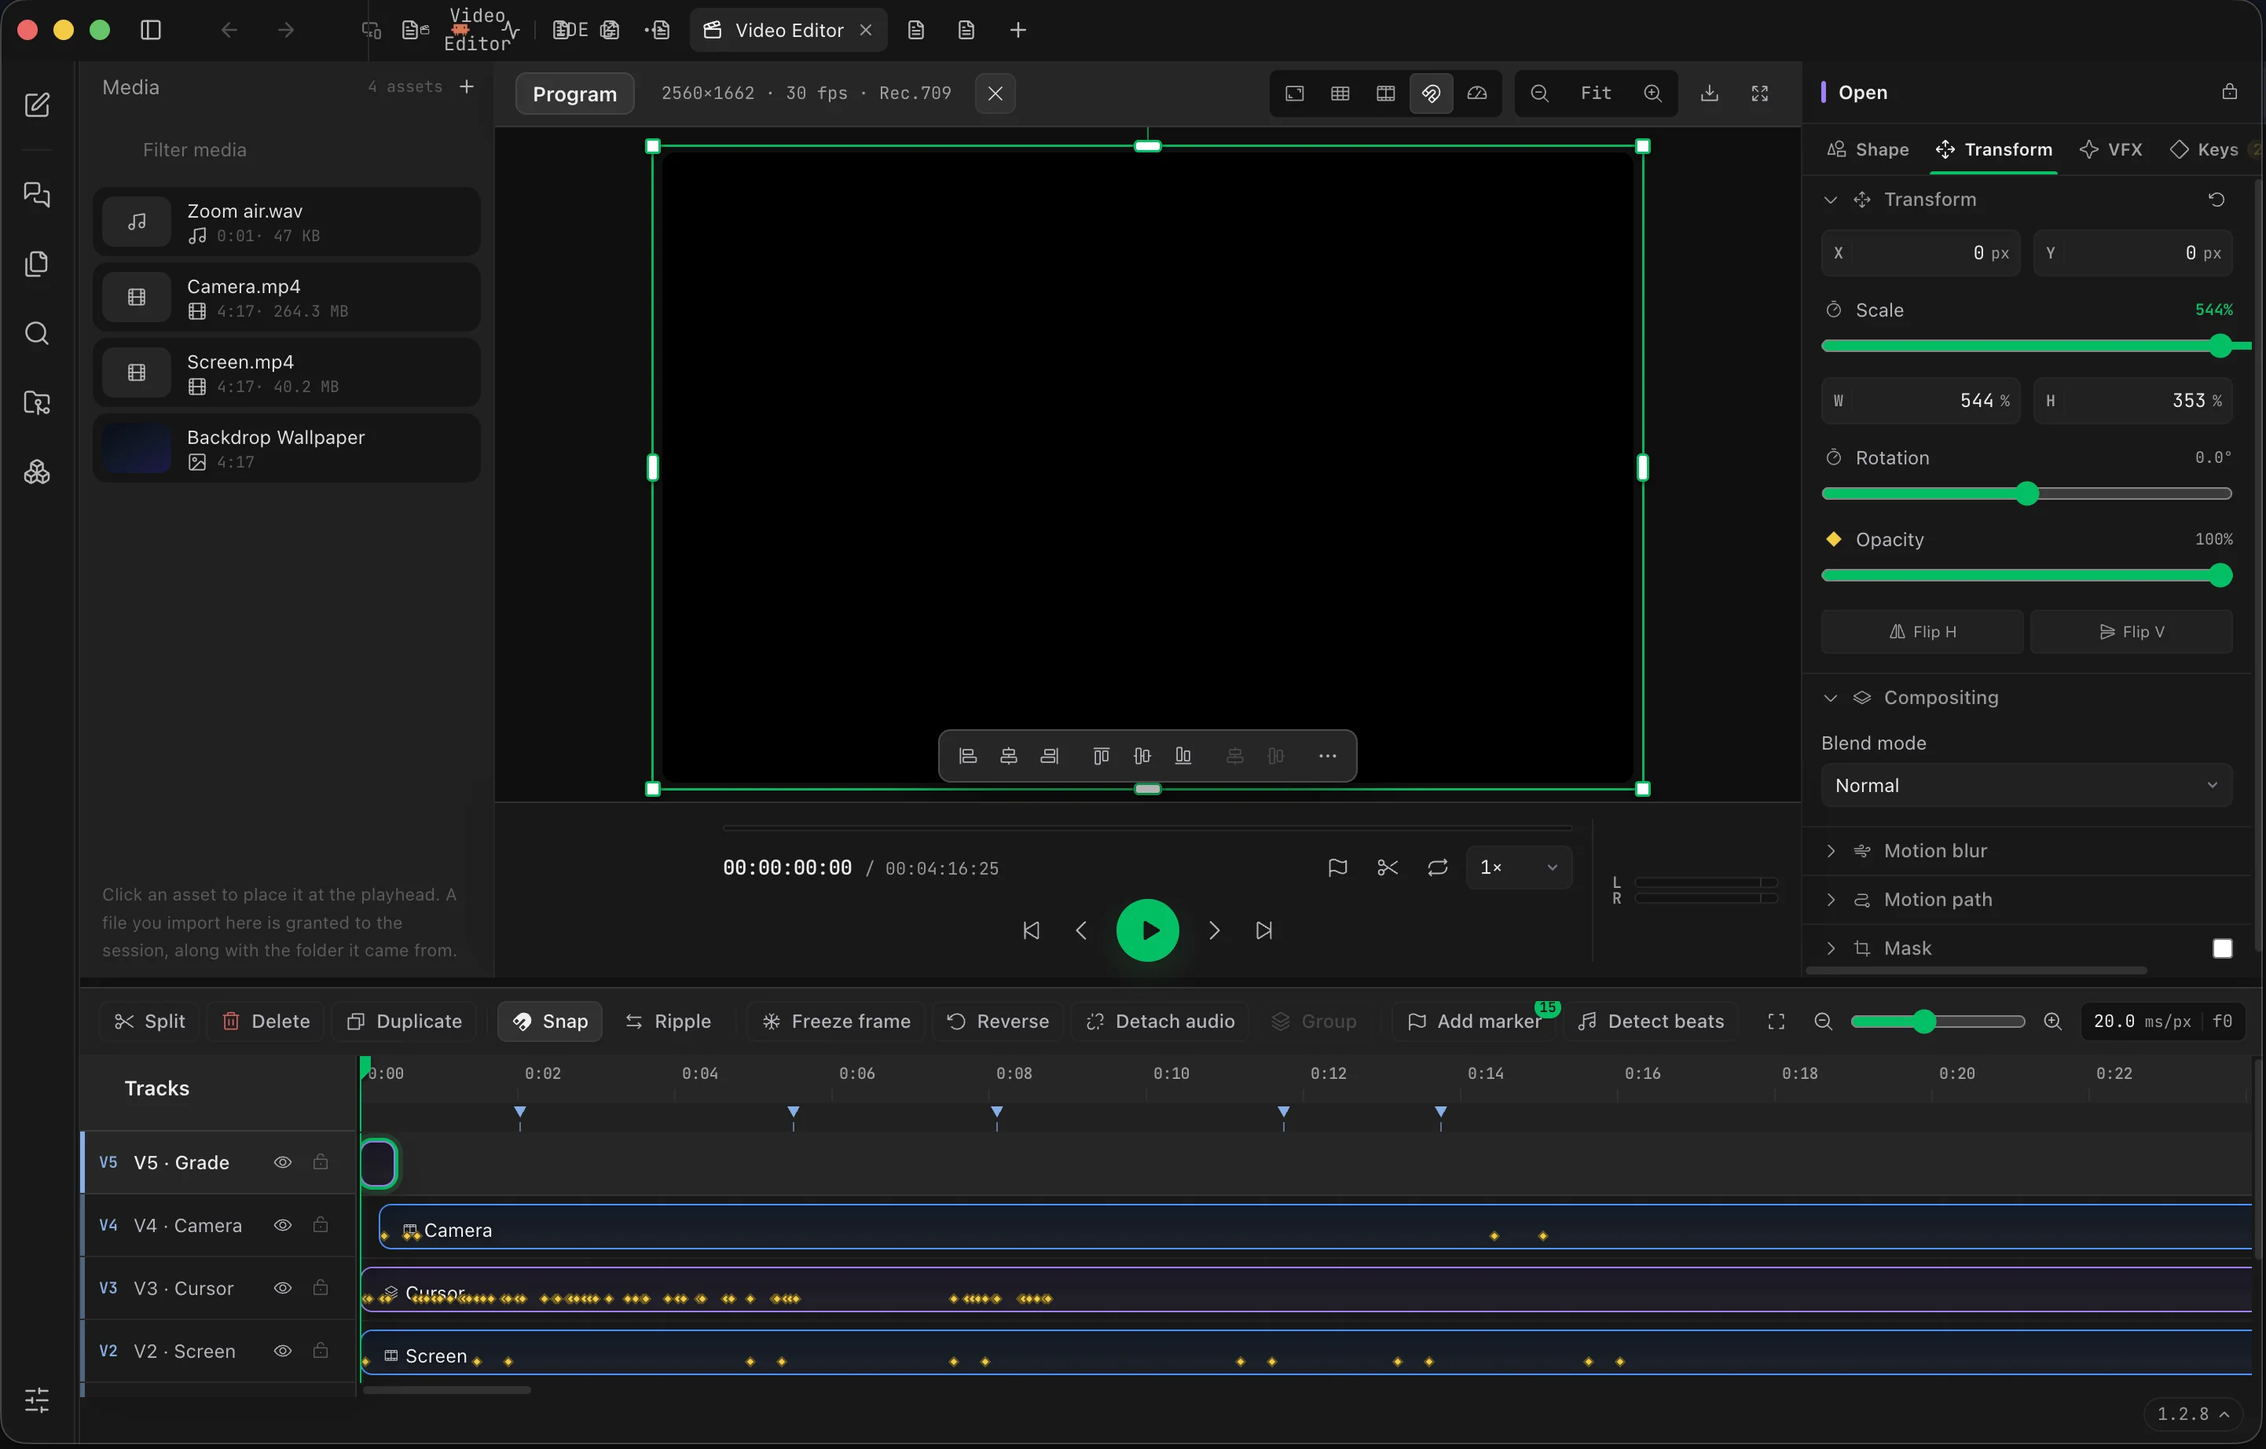
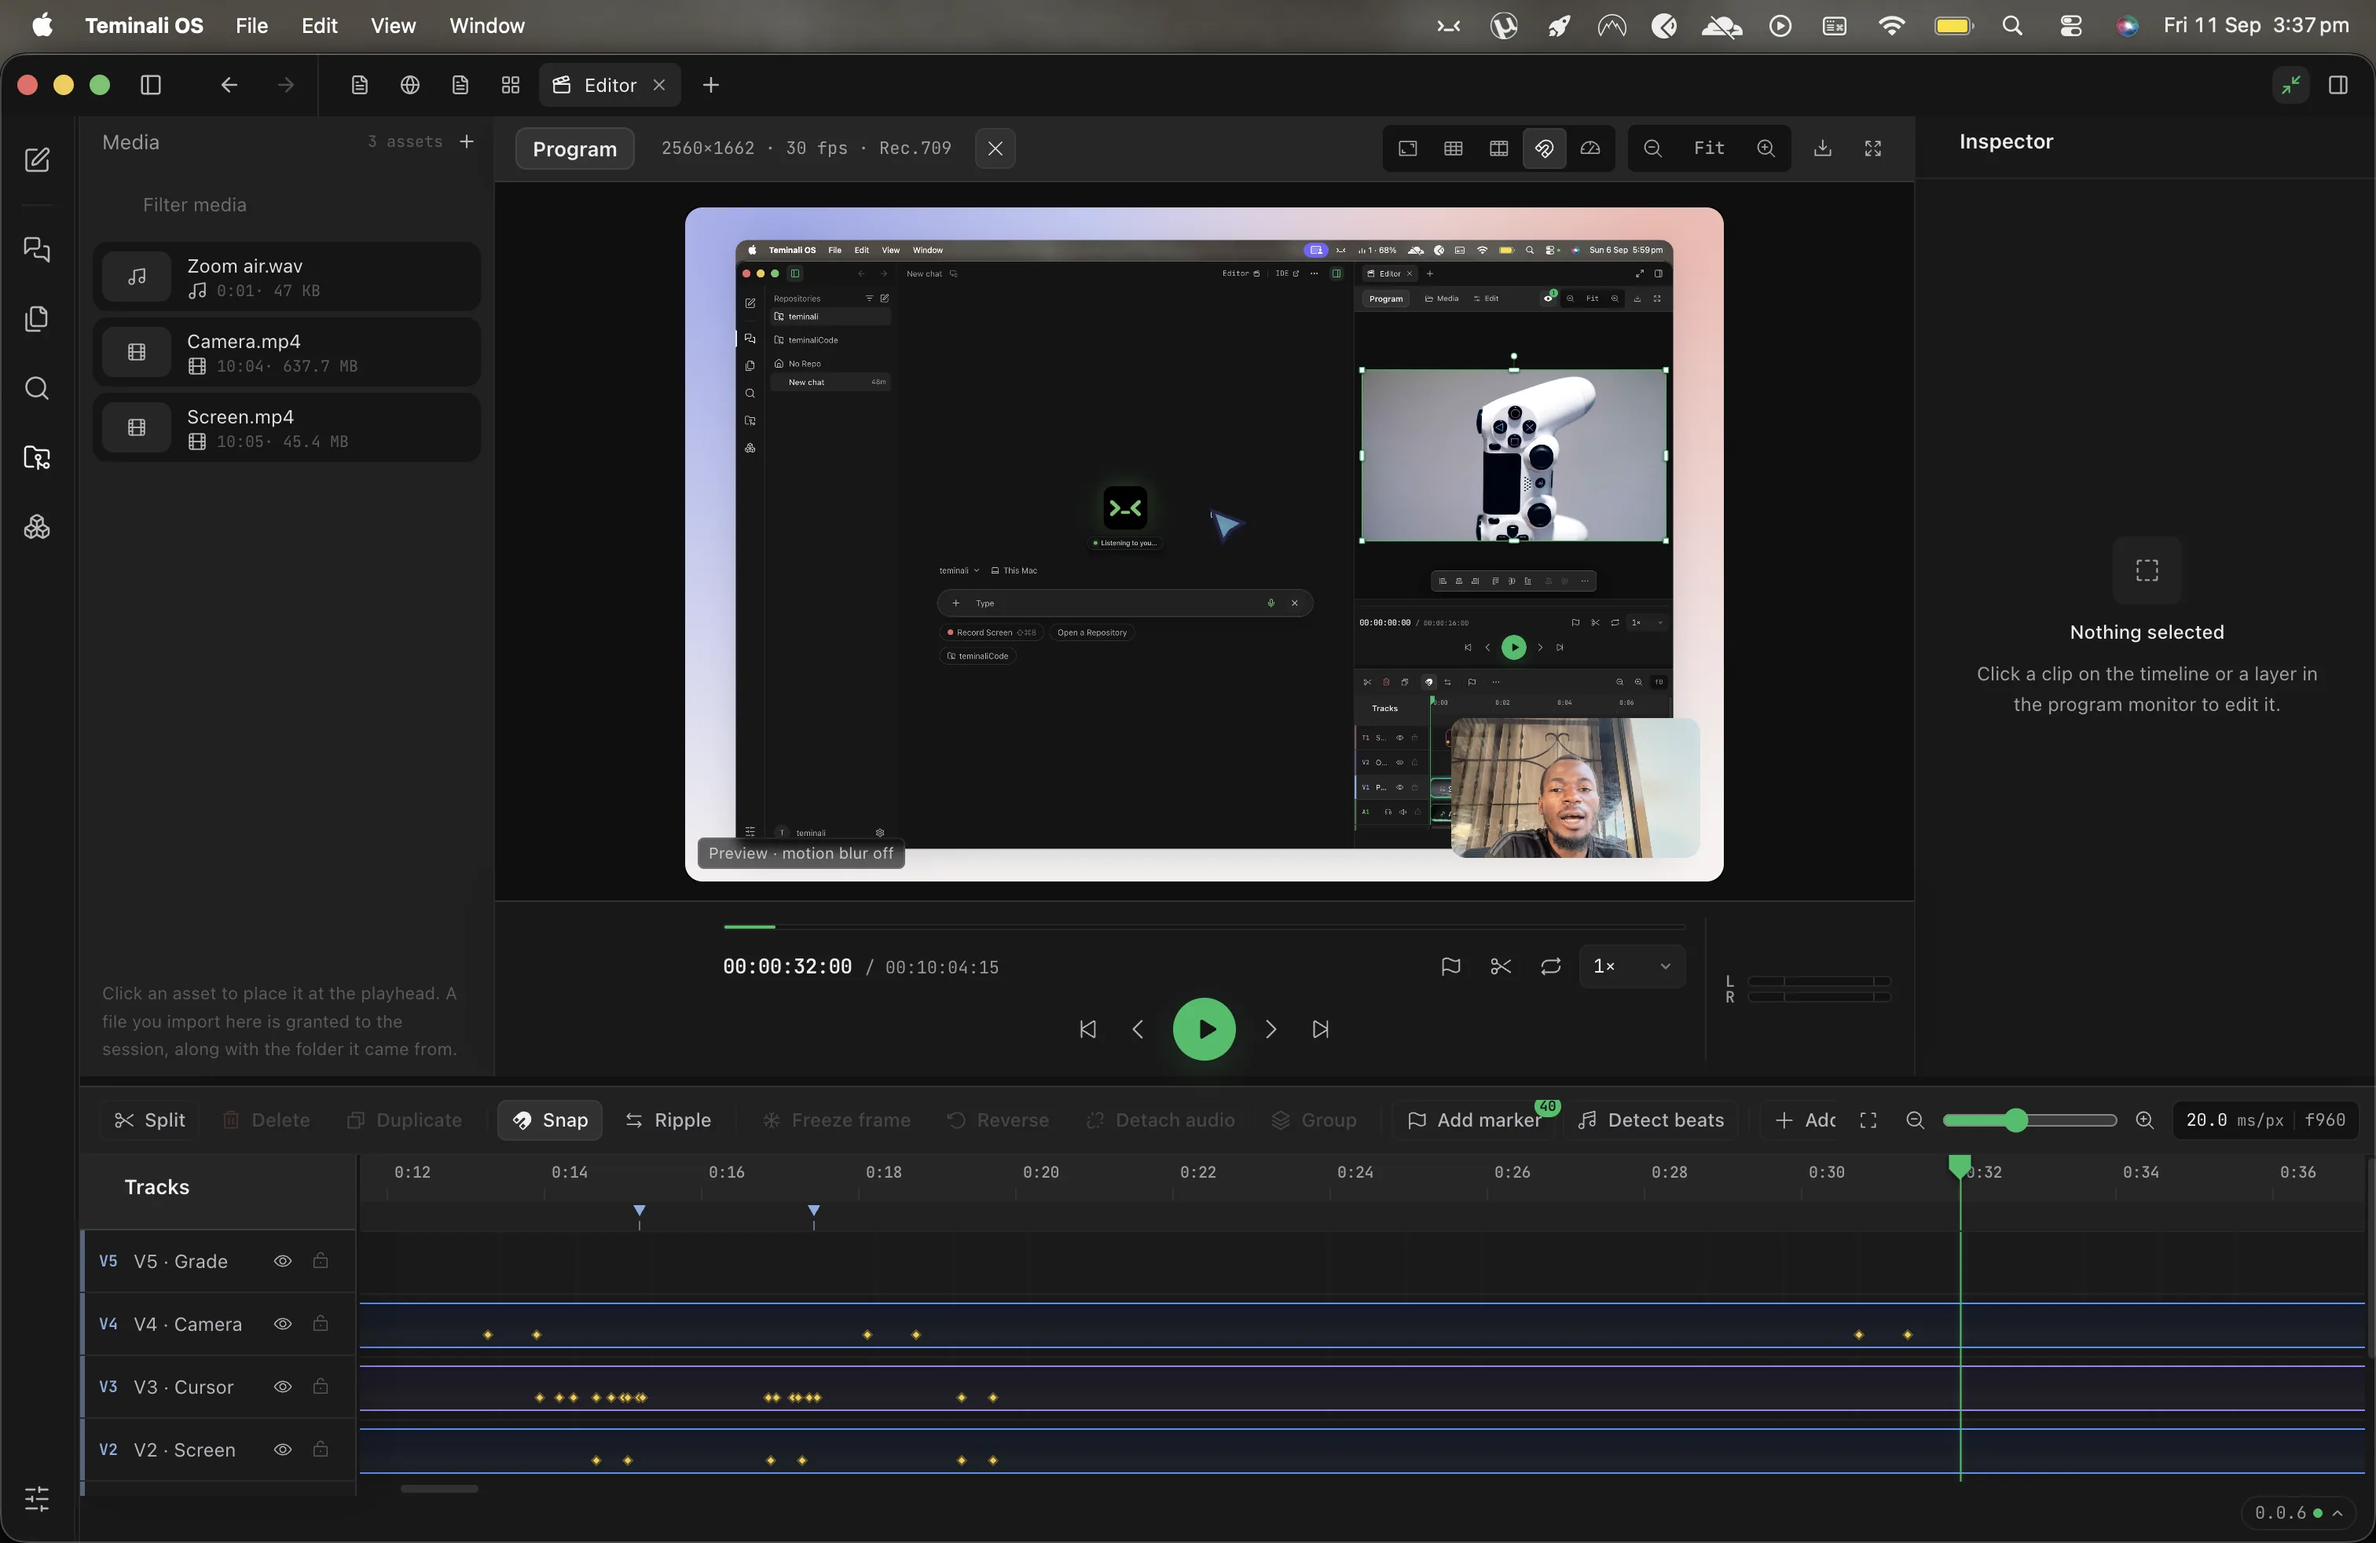
feat(landing): refresh six studio shots from the 2026-09-11 captures
home, copilot, editor, editor-wide, settings and record are replaced with
whole-screen 3024x1964 captures taken on 2026-09-11, converted with cwebp
-q 82. ffmpeg on this machine has no libwebp encoder, so cwebp is the
converter, not ffmpeg.

Every alt that described the old image is rewritten, in StudioMock and
again in site.ts, which carries its own set for the hero scenes:

- copilot is no longer an agent mid-plan; it is the editor docked beside
  an idle chat, so both alts now say that.
- settings is the General pane, not the gateway pane. Its alts described
  127.0.0.1:4310 and Ollama, neither of which is on screen.

The 'route' scene's float card asserted "127.0.0.1:4310 - Ollama
connected" over that same image. The General pane does carry a privacy
block about the local lane reaching Ollama over the loopback gateway, so
the float now claims that instead: a statement the screenshot supports.

The StudioMock header comment claimed all of these come from
tools/studio-scenes.mjs at 3x DPR. That tool exists and still produces
run, video, route and verify; the other eight are hand-captured. The
comment now says which is which.

run, video, route, verify, take and export keep their existing images -
the new set contains no replacement for them.

diff --git a/src/components/StudioMock.tsx b/src/components/StudioMock.tsx
@@ -1,12 +1,15 @@
 /**
  * The Teminali OS studio: real captures of the shipping app.
  *
- * These are screenshots of the product itself, taken at 3x device pixel ratio
- * (3840x2400) so they survive the dolly push-in onto the laptop screen without
- * softening. They are regenerated by `tools/studio-scenes.mjs`, which drives
- * the real studio on :3000 and seeds it with a representative session, so the
- * chrome, the sidebar, the tool-call cards and the run metrics are all the
- * app's own components rather than a drawing of them.
+ * These are screenshots of the product itself, at a resolution that survives
+ * the dolly push-in onto the laptop screen without softening.
+ *
+ * They come from two sources. `run`, `video`, `route` and `verify` are
+ * generated by `tools/studio-scenes.mjs`, which drives the real studio on
+ * :3000 and seeds it with a representative session (3840x2400, 3x DPR). The
+ * other eight are hand-captured off a running app — the six refreshed on
+ * 2026-09-11 are whole-screen 3024x1964 grabs, menu bar included, so they
+ * carry a little more chrome than the tool's window-only frames.
  *
  * The trade this makes, recorded in SECTION_MAP.md: a screenshot can go stale
  * against a build, where the old DOM mock could not. Re-run the capture tool
@@ -19,7 +22,8 @@ const shots = {
   video: '/shots/video.webp',
   route: '/shots/route.webp',
   verify: '/shots/verify.webp',
-  // Real captures of v1.2.8, supplied 2026-09-05.
+  // Hand-captured. These six were refreshed from v0.0.6 on 2026-09-11;
+  // `take` and `export` are still the v1.2.8 captures supplied 2026-09-05.
   copilot: '/shots/copilot.webp',
   editor: '/shots/editor.webp',
   'editor-wide': '/shots/editor-wide.webp',
@@ -36,14 +40,14 @@ const alts = {
   video: 'The Teminali OS video editor: multi-track timeline, program monitor, inspector, and AI Video Copilot syncing cuts to 130 BPM beats.',
   route: 'The Teminali OS studio showing which engine answered a task, the reason it was routed locally, and its token counts.',
   verify: 'The Teminali OS studio after a verification run: typecheck, unit, core and build green, lint reporting three warnings.',
-  copilot: 'The agent adding captions to a recording through the video tools, with the program monitor showing the screen and camera take.',
-  editor: 'The video editor: media pool, program monitor, transform inspector and a timeline with grade, camera, cursor and screen tracks.',
-  'editor-wide': 'The video editor expanded to the full window width.',
-  record: 'The Record Screen dialog: display picker, camera, sound, frame rate and resolution, and Start recording.',
+  copilot: 'The video editor docked beside the chat, the program monitor playing a take over camera, cursor and screen tracks on the timeline.',
+  editor: 'The video editor: the media pool holding a screen, camera and audio take, the program monitor, the inspector, and a timeline with grade, camera, cursor and screen tracks.',
+  'editor-wide': 'The video editor expanded to the full window width, with split, snap, ripple, add marker and detect beats above the timeline.',
+  record: 'The Record Screen dialog on its Capture tab: the display picker, camera and its size and corner, microphone, narration on its own track, frame rate, and Start recording.',
   take: 'A saved take on the review screen: look and backdrop, pointer style, zoom motion, and Open on the timeline.',
   export: 'The Export video dialog: YouTube, TikTok and Master presets, resolution, codec and GPU acceleration.',
-  settings: 'Settings: the local gateway connected on 127.0.0.1:4310 with Ollama, model management, startup and notifications.',
-  home: 'The empty chat screen: the composer, Frontier Auto, Record Screen and Open a Repository, and recent projects.',
+  settings: 'Settings on the General pane: restore last session, the turn-complete and turn-failed notifications, and a privacy note on where your code goes for each engine.',
+  home: 'The empty chat screen: the composer set to Frontier Auto, with Plan New Idea, Screen Recorder, Recent Projects and Open a Repository beneath it, and chat history down the left.',
 }
 
 export function StudioMock({ variant }: { variant: ShotName }) {

diff --git a/src/content/site.ts b/src/content/site.ts
@@ -53,7 +53,7 @@ export const scenes = [
     shot: 'copilot',
     icon: 'play',
     caption: 'Give it the task. Watch every step land in your repository.',
-    alt: 'The studio mid-task: a numbered plan in the conversation, each tool call landing as a card, and the editor open beside it.',
+    alt: 'The video editor docked beside the chat, its program monitor playing a take over camera, cursor and screen tracks on the timeline.',
     float: {
       status: 'live',
       kicker: 'Agent running',
@@ -82,12 +82,12 @@ export const scenes = [
     shot: 'settings',
     icon: 'route',
     caption: 'Every request goes through one gateway you can read.',
-    alt: 'Settings: the local gateway running at http://127.0.0.1:4310 with Ollama connected, and model weights managed on disk.',
+    alt: 'Settings on the General pane: restore last session, the turn-complete and turn-failed notifications, and a note on where your code goes for each engine.',
     float: {
       status: 'ok',
-      kicker: 'Local gateway',
-      title: '127.0.0.1:4310 · Ollama connected',
-      sub: 'Local lane by default · hosted opt-in',
+      kicker: 'Privacy',
+      title: 'Local lane over the loopback gateway',
+      sub: 'Prompts and edits reach Ollama only',
       slot: 'top-right',
     },
   },
